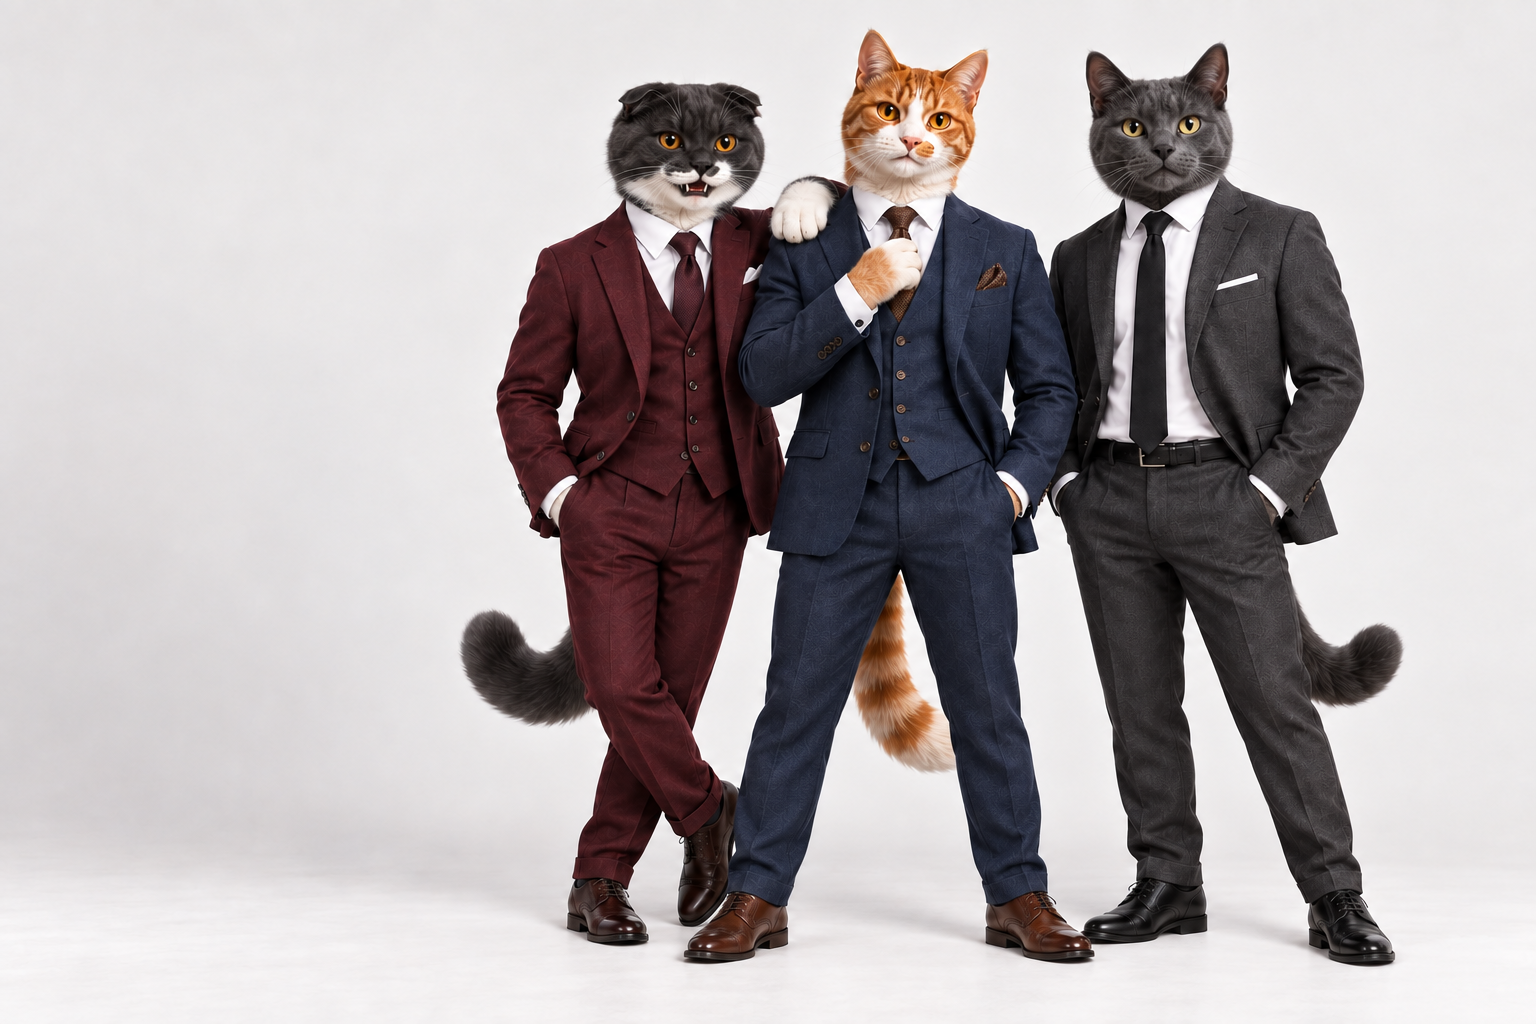
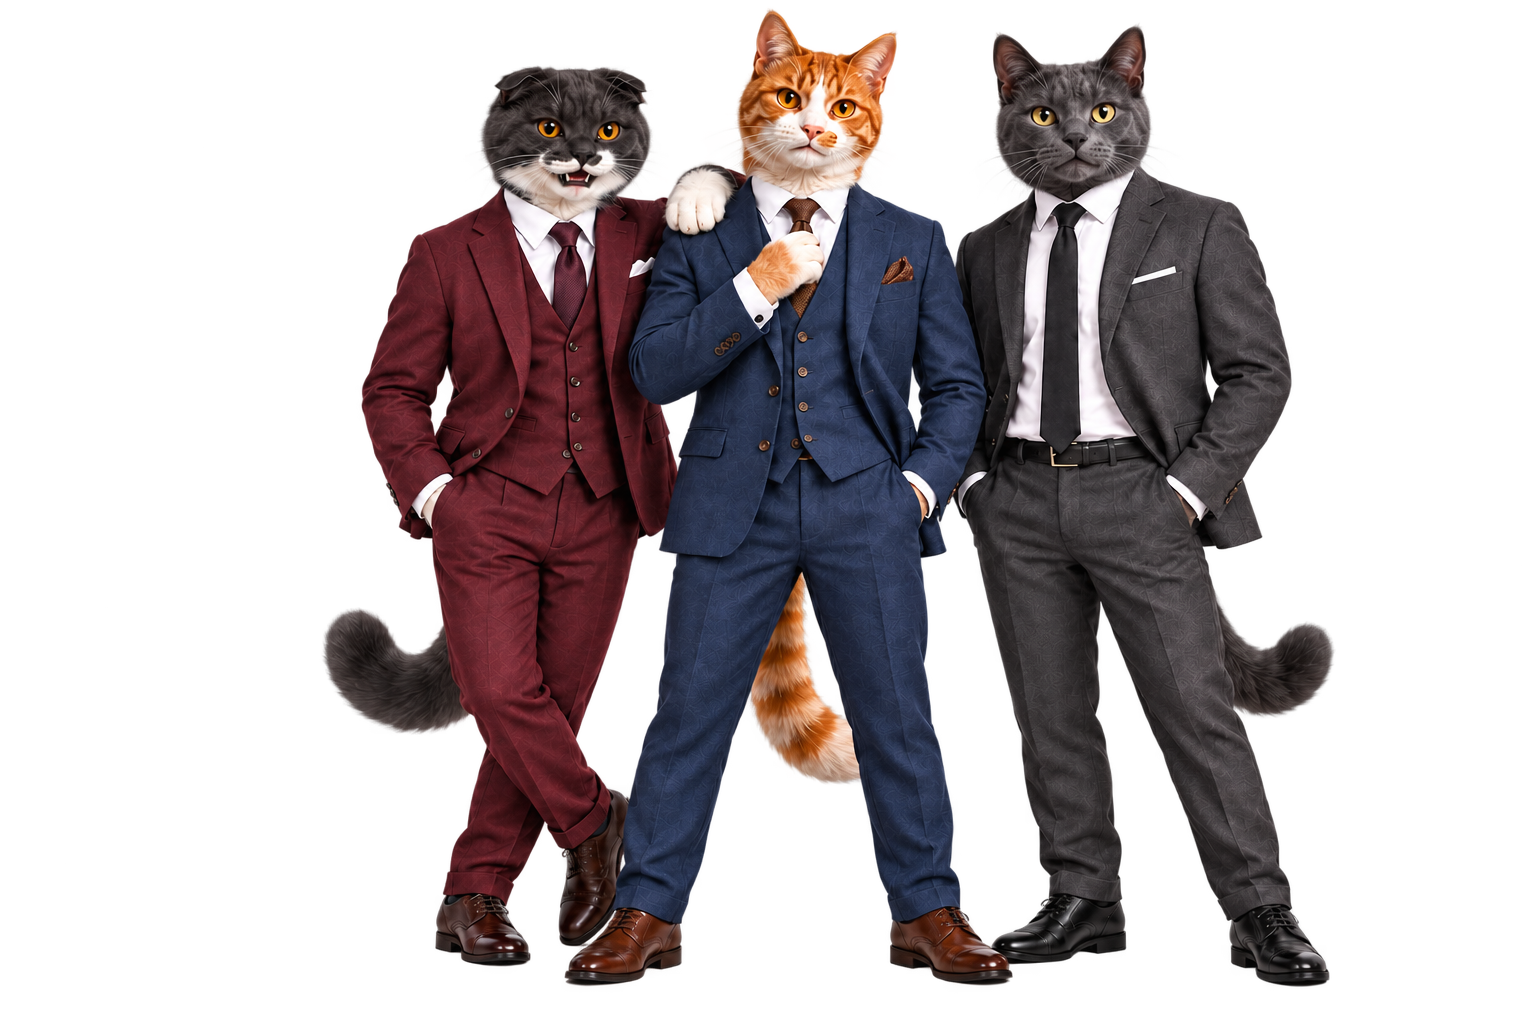
Fix hero blend and add color-aware product galleries

diff --git a/src/data/products.js b/src/data/products.js
@@ -207,10 +207,29 @@ export const products = [
     rating: 4.5,
     reviewCount: 65,
     availableColors: [
-      { name: "Green", hex: "#00C12B" },
-      { name: "Black", hex: "#000000", image: "/images/products/variants/product-10-black.png" },
-      { name: "White", hex: "#FFFFFF", image: "/images/products/variants/product-10-white.png" },
-      { name: "Yellow", hex: "#F5DD06", image: "/images/products/variants/product-10-yellow.png" }
+      {
+        name: "Green",
+        hex: "#00C12B",
+        images: ["/images/products/product-10.png", "/images/products/product-10-back.png", "/images/products/product-10-model.png"]
+      },
+      {
+        name: "Black",
+        hex: "#000000",
+        image: "/images/products/variants/product-10-black.png",
+        images: ["/images/products/variants/product-10-black.png", "/images/products/models/product-10-black-back.png", "/images/products/models/product-10-black-front.png"]
+      },
+      {
+        name: "White",
+        hex: "#FFFFFF",
+        image: "/images/products/variants/product-10-white.png",
+        images: ["/images/products/variants/product-10-white.png", "/images/products/models/product-10-white-back.png", "/images/products/models/product-10-white-front.png"]
+      },
+      {
+        name: "Yellow",
+        hex: "#F5DD06",
+        image: "/images/products/variants/product-10-yellow.png",
+        images: ["/images/products/variants/product-10-yellow.png", "/images/products/models/product-10-yellow-back.png", "/images/products/models/product-10-yellow-front.png"]
+      }
     ],
     availableSizes: ["Small", "Medium", "Large", "X-Large"],
     stock: 45,

diff --git a/src/components/sections/Hero.js b/src/components/sections/Hero.js
@@ -41,8 +41,16 @@ export default function Hero() {
           </div>
           
           <div className="flex-1 relative min-h-[350px] sm:min-h-[450px] md:min-h-[500px] lg:min-h-[600px] flex items-end justify-center lg:justify-end overflow-hidden">
-            <div className="absolute right-10 top-14 z-20 h-10 w-10 rotate-45 bg-black lg:right-16 lg:top-24 lg:h-16 lg:w-16" />
-            <div className="absolute left-6 top-1/3 z-20 h-6 w-6 rotate-45 bg-black lg:left-10 lg:top-1/2 lg:h-9 lg:w-9" />
+            <div className="absolute right-10 top-14 z-20 h-14 w-14 animate-pulse lg:right-16 lg:top-24 lg:h-[88px] lg:w-[88px]">
+              <svg viewBox="-2 -2 104 104" aria-hidden="true" className="h-full w-full">
+                <path d="M50 0C53 32 68 47 100 50C68 53 53 68 50 100C47 68 32 53 0 50C32 47 47 32 50 0Z" fill="black" />
+              </svg>
+            </div>
+            <div className="absolute left-6 top-1/3 z-20 h-9 w-9 animate-pulse lg:left-10 lg:top-1/2 lg:h-14 lg:w-14">
+              <svg viewBox="-2 -2 104 104" aria-hidden="true" className="h-full w-full">
+                <path d="M50 0C53 32 68 47 100 50C68 53 53 68 50 100C47 68 32 53 0 50C32 47 47 32 50 0Z" fill="black" />
+              </svg>
+            </div>
             <Image 
               src="/images/hero/hero-banner.png" 
               alt="Luchik, Kuzya and Vitalik in tailored suits" 

diff --git a/src/app/item/page.js b/src/app/item/page.js
@@ -31,7 +31,7 @@ function ItemContent() {
   if (loading) return <main className="container-main min-h-[50vh] py-20 text-center">{ru ? "Загрузка товара…" : "Loading product…"}</main>;
   if (!product) return <main className="container-main min-h-[50vh] py-20 text-center"><h1 className="font-integral text-3xl font-bold">{ru ? "Товар недоступен" : "PRODUCT UNAVAILABLE"}</h1><p className="mt-3 text-black/50">{ru ? "Возможно, он снят с публикации." : "It may have been removed from the catalog."}</p></main>;
 
-  const galleryImages = product.images?.length ? [selectedColor?.image || product.images[0], ...product.images.slice(1)] : [];
+  const galleryImages = product.images?.length ? selectedColor?.images || (selectedColor?.image ? [selectedColor.image] : product.images) : [];
   const relatedProducts = products.filter((item) => item.id !== product.id).slice(0, 4);
   const displayedProduct = reviewSummary ? { ...product, rating: reviewSummary.rating, reviewCount: reviewSummary.count } : product;
 

diff --git a/src/app/product/[id]/page.js b/src/app/product/[id]/page.js
@@ -17,7 +17,7 @@ export default function ProductPage({ params }) {
   const product = getProductById(id) || products[0]; // fallback to first product if not found
   const [selectedColor, setSelectedColor] = useState(product.availableColors?.[0] || null);
   const galleryImages = product?.images?.length
-    ? [selectedColor?.image || product.images[0], ...product.images.slice(1)]
+    ? selectedColor?.images || (selectedColor?.image ? [selectedColor.image] : product.images)
     : [];
   
   const breadcrumbItems = [
